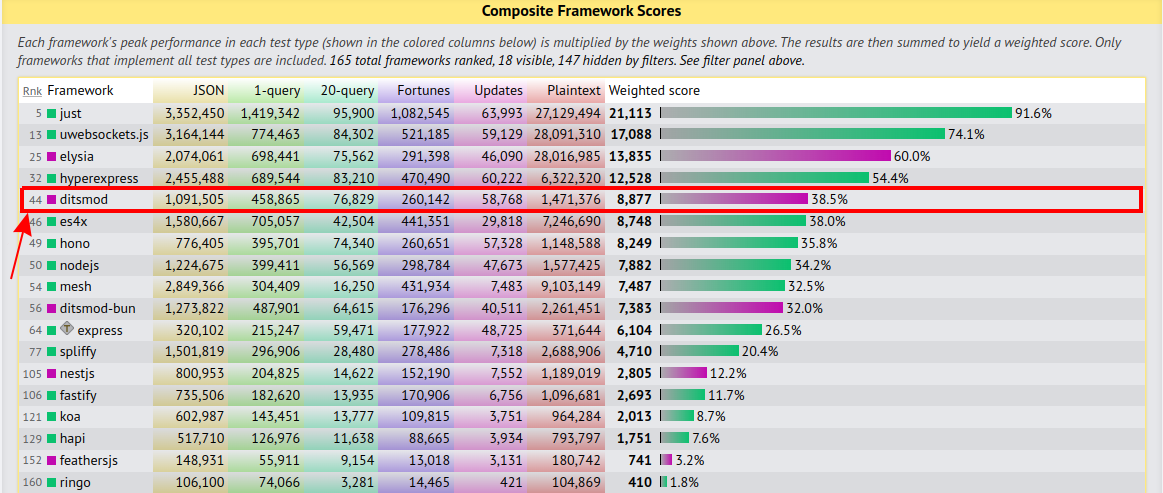
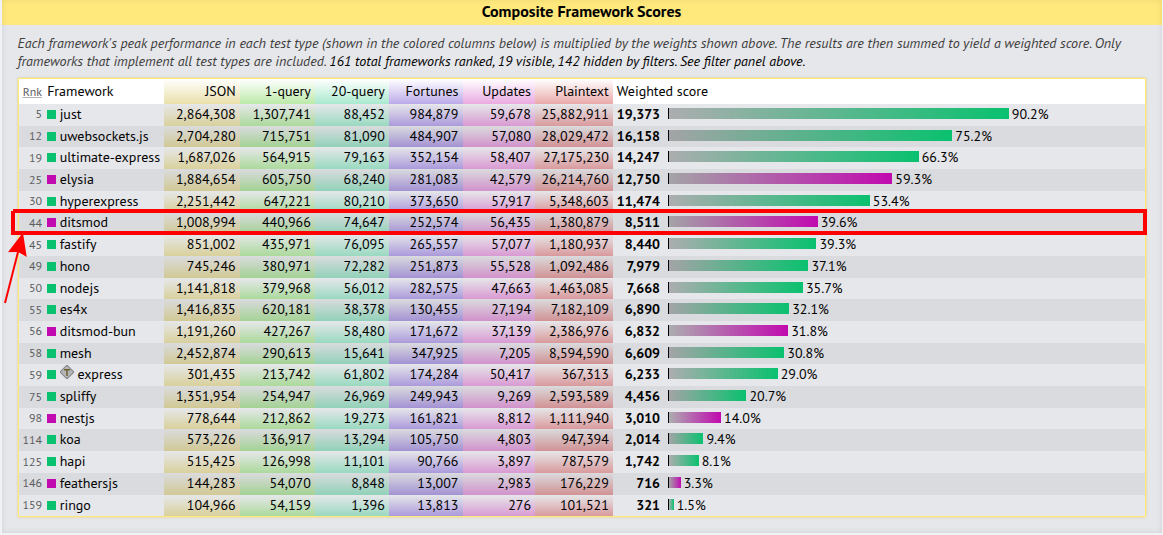
chore(root): update image from tech empower benchmarks

diff --git a/README.md b/README.md
@@ -59,7 +59,7 @@ Up until version 3.0.0, Ditsmod had a small user base, which allowed for numerou
 
 On the techempower website, you can view [benchmarks for backend frameworks on the JavaScript stack][4]. As you can see, according to the composite score, Ditsmod is the fastest framework that works on the basis of Node.js. Above it are only those frameworks that work on other JavaScript runtimes (Bun, Just-JS, uwebsockets).
 
-![](tech-empower-benchmarks.png)
+![](website/static/img/tech-empower-benchmarks.png)
 
 ## About the repo
 
@@ -85,7 +85,7 @@ yarn start:dev
 [1]: https://github.com/angular/angular
 [2]: https://www.typescriptlang.org/tsconfig#paths
 [3]: https://www.typescriptlang.org/docs/handbook/project-references.html
-[4]: https://www.techempower.com/benchmarks/#section=test&runid=e81c1103-95d8-485e-949a-5ae323c76c87&hw=ph&test=composite&l=zieepr-67z
+[4]: https://www.techempower.com/benchmarks/#section=test&runid=967babf5-cf1a-4b3f-a6d0-1cd49ef2c424&hw=ph&test=composite&l=zieepr-67z
 [5]: https://github.com/tanem/express-bookshelf-realworld-example-app
 [6]: https://dev.to/kostyatretyak/nestjs-vs-ditsmod-injection-scopes-537o
 [7]: https://x.com/kammysliwiec/status/1447892571376783360

diff --git a/website/docs/intro.md b/website/docs/intro.md
@@ -225,7 +225,7 @@ bun dist/main.js
 [10]: https://jestjs.io/en/
 [12]: https://uk.wikipedia.org/wiki/%D0%9E%D0%B4%D0%B8%D0%BD%D0%B0%D0%BA_(%D1%88%D0%B0%D0%B1%D0%BB%D0%BE%D0%BD_%D0%BF%D1%80%D0%BE%D1%94%D0%BA%D1%82%D1%83%D0%B2%D0%B0%D0%BD%D0%BD%D1%8F) "Singleton"
 [13]: https://github.com/ditsmod/realworld
-[14]: https://www.techempower.com/benchmarks/#section=test&runid=e81c1103-95d8-485e-949a-5ae323c76c87&hw=ph&test=composite&l=zieepr-67z
+[14]: https://www.techempower.com/benchmarks/#section=test&runid=967babf5-cf1a-4b3f-a6d0-1cd49ef2c424&hw=ph&test=composite&l=zieepr-67z
 [15]: https://github.com/remy/nodemon
 [16]: https://www.typescriptlang.org/docs/handbook/project-references.html
 [17]: https://github.com/TypeStrong/ts-node

diff --git a/website/i18n/en/docusaurus-plugin-content-docs/current/intro.md b/website/i18n/en/docusaurus-plugin-content-docs/current/intro.md
@@ -226,7 +226,7 @@ bun dist/main.js
 [10]: https://jestjs.io/en/
 [12]: https://en.wikipedia.org/wiki/Singleton_pattern
 [13]: https://github.com/ditsmod/realworld
-[14]: https://www.techempower.com/benchmarks/#section=test&runid=e81c1103-95d8-485e-949a-5ae323c76c87&hw=ph&test=composite&l=zieepr-67z
+[14]: https://www.techempower.com/benchmarks/#section=test&runid=967babf5-cf1a-4b3f-a6d0-1cd49ef2c424&hw=ph&test=composite&l=zieepr-67z
 [15]: https://github.com/remy/nodemon
 [16]: https://www.typescriptlang.org/docs/handbook/project-references.html
 [17]: https://github.com/TypeStrong/ts-node
